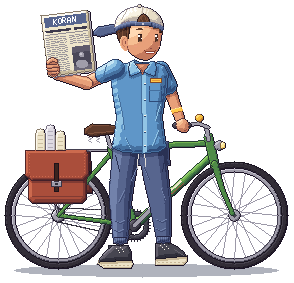
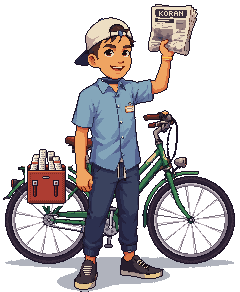
art: konversi2 menggantikan gambar full body resmi
Ronggur memutuskan (2026-10-08) hasil konversi gambar AI menggantikan
loper_agen_fullbody.png. Gambar resmi sekarang 240x292 dari konversi2.py.
Gambar 294x283 lima nada dari fullbody.py disimpan di loper_agen/arsip/
sebagai loper_agen_fullbody_v2, mengikuti arsip full body dari PR #2.

konversi2.py kini menulis loper_agen_fullbody.png dan, dengan --layers,
layer kepala dan badan terpisah (dipakai TECH_PLAN untuk ekspresi potret,
sebelumnya dari fullbody.py --layers). Salinan PNG di konversi2/ dihapus
supaya tidak dobel; folder itu tinggal sumber dan catatan.

ART_DIRECTION 3.5 ditulis ulang untuk gambar baru, dan pertanyaan terbuka
soal gaya lima nada untuk skala besar ditutup. Indeks karakter ikut
diperbarui.

Claude-Session: https://claude.ai/code/session_01KKCx6EyAWLZEa7qt4exrqe

diff --git a/tools/loper_art/fullbody/konversi2.py b/tools/loper_art/fullbody/konversi2.py
@@ -1,7 +1,8 @@
-"""Gambar AI loper (sumber 1792x2240) jadi pixel art 240x292, versi konversi2.
+"""Gambar full body loper (resmi sejak 2026-10-08): gambar AI 1792x2240 jadi pixel art 240x292.
 
-Hasil: docs/design/character/loper_agen/konversi2/. Langkah-langkahnya ada di
-folder konversi2/ dan dijalankan berurutan:
+Hasil: docs/design/character/loper_agen/loper_agen_fullbody.png (sumber dan catatan di
+konversi2/ di folder yang sama). Langkah-langkahnya ada di folder konversi2/ di sini dan
+dijalankan berurutan:
 
   mask.py     latar cokelat polos dibuang (masker latar)
   stage1.py   bayangan tanah dipisah, palet 36 warna (k-means Lab), tiap sel 7x7 px
@@ -20,6 +21,7 @@ Koordinat di tiap langkah khusus untuk gambar sumber ini.
 
   python3 tools/loper_art/fullbody/konversi2.py \\
       docs/design/character/loper_agen/konversi2/sumber_ai.jpg --out build/loper_art/konversi2
+  # --layers: juga simpan layer kepala dan badan terpisah (untuk ekspresi potret)
 
 Butuh numpy, pillow, opencv-python, scikit-learn.
 """
@@ -38,6 +40,7 @@ def main():
     ap = argparse.ArgumentParser(description=__doc__.split("\n")[0])
     ap.add_argument("source", help="gambar sumber (sumber_ai.jpg)")
     ap.add_argument("--out", default="build/loper_art/konversi2")
+    ap.add_argument("--layers", action="store_true", help="juga simpan layer kepala dan badan terpisah")
     args = ap.parse_args()
 
     out = os.path.abspath(args.out)
@@ -49,13 +52,15 @@ def main():
         print("..", step)
         runpy.run_path(os.path.join(HERE, step), init_globals={"W": work + os.sep, "HERE": HERE})
 
+    name = "loper_agen_fullbody"
     img = Image.open(os.path.join(work, "comp1x.png")).convert("RGBA")
-    img.save(os.path.join(out, "loper_agen_konversi2.png"))
+    img.save(os.path.join(out, name + ".png"))
     w, h = img.size
-    big = img.resize((w * 3, h * 3), Image.NEAREST)
-    os.makedirs(os.path.join(out, "preview"), exist_ok=True)
-    big.save(os.path.join(out, "preview", "loper_agen_konversi2_x3.png"))
-    print("selesai:", os.path.join(out, "loper_agen_konversi2.png"), f"{w}x{h}")
+    img.resize((w * 3, h * 3), Image.NEAREST).save(os.path.join(out, name + "_x3.png"))
+    if args.layers:
+        shutil.copyfile(os.path.join(work, "layer_badan.png"), os.path.join(out, name + "_body.png"))
+        shutil.copyfile(os.path.join(work, "layer_kepala.png"), os.path.join(out, name + "_head.png"))
+    print(f"{name}: {w}x{h} -> {out}")
 
 
 if __name__ == "__main__":

diff --git a/tools/loper_art/fullbody/konversi2/compose.py b/tools/loper_art/fullbody/konversi2/compose.py
@@ -159,3 +159,9 @@ for (ax,ay) in AXLES:
     for (x,y) in [(ax-2,ay-1),(ax-2,ay),(ax+1,ay-1),(ax+1,ay),(ax-1,ay-2),(ax,ay-2),(ax-1,ay+1),(ax,ay+1)]:
         img.put(x,y,OUT)
 Image.fromarray(img.rgba()).save(W+'comp1x.png')
+# head and body layers: body keeps what lies under the head (back of the collar)
+body=Canvas(GH,GW); body.rgb=img.rgb.copy(); body.a=img.a.copy()
+hm=HEAD_LAYER.a>0
+body.rgb[hm]=PRE_RGB[hm]; body.a[hm]=PRE_A[hm]
+Image.fromarray(body.rgba()).save(W+'layer_badan.png')
+Image.fromarray(HEAD_LAYER.rgba()).save(W+'layer_kepala.png')

diff --git a/tools/loper_art/fullbody/konversi2/headmove_b.py b/tools/loper_art/fullbody/konversi2/headmove_b.py
@@ -1,5 +1,9 @@
 # ---- paste the head 2 px lower, in front of the collar
+# (also kept as its own layer, so the head can be swapped for portrait expressions)
+PRE_RGB=img.rgb.copy(); PRE_A=img.a.copy()
+HEAD_LAYER=Canvas(GH,GW)
 for y in range(GH-1,-1,-1):
     for x in range(HX0,HX1):
         if HEAD_A[y,x]:
             img.put(x,y+HEAD_SHIFT,tuple(HEAD_RGB[y,x]))
+            HEAD_LAYER.put(x,y+HEAD_SHIFT,tuple(HEAD_RGB[y,x]))

diff --git a/docs/ART_DIRECTION.md b/docs/ART_DIRECTION.md
@@ -210,20 +210,24 @@ Tujuh varian dari eksplorasi tetap ada di `tools/loper_art/loper.py` dan bisa di
 
 ### 3.5 Gambar skala besar (full body)
 
-Dipakai di layar di luar rute: layar judul, halaman depan koran, lemari baju, hasil harian, gambar toko. File: `design/character/loper_agen/loper_agen_fullbody.png` (294×283 px, tampil ×3), dibuat dengan `tools/loper_art/fullbody/fullbody.py`.
+> **KEPUTUSAN (2026-10-08): gambar full body diganti dengan konversi gambar AI** (`konversi2`), menggantikan gambar 294×283 hasil `fullbody.py` (disimpan di `design/character/loper_agen/arsip/loper_agen_fullbody_v2.png`).
 
-Gaya skala besar (usulan) sengaja lebih kaya dari sprite rute, karena dilihat dari dekat dan tidak bergerak di atas jalan:
+Dipakai di layar di luar rute: layar judul, halaman depan koran, lemari baju, hasil harian, gambar toko. File: `design/character/loper_agen/loper_agen_fullbody.png` (240×292 px, tampil ×3), dibuat dengan `tools/loper_art/fullbody/konversi2.py` dari ilustrasi AI `design/character/loper_agen/konversi2/sumber_ai.jpg`, lalu sebagian diubah dan digambar ulang (catatan lengkap di `konversi2/README.md`).
+
+Gaya skala besar sengaja lebih kaya dari sprite rute, karena dilihat dari dekat dan tidak bergerak di atas jalan:
 
 | | Sprite rute | Skala besar |
 |---|---|---|
-| Nada per warna | 3 | 5, bayangan bergeser ke ungu-biru |
-| Garis dalam | `#0E0A1C` | Warna gelap bahan itu sendiri; garis luar siluet `#1B1226` |
+| Nada per warna | 3 | Palet hasil konversi (k-means 36 warna ditambah warna bagian yang digambar ulang, 70 warna) |
+| Garis dalam | `#0E0A1C` | Warna gelap dari gambar sumber; garis luar siluet `#1B1226` |
 | Bayangan tanah | Penanda hitam 28%, diwarnai shader | Dongker `#2E3550` 38% |
 | Detail | Bentuk besar, wajah 2 mata + mulut | Lipatan kain, jahitan, wajah tiga perempat, tulisan "KORAN" di koran |
 
-Pose: berdiri di depan sepeda, tangan kiri di setang. Tangan kanan menjulurkan koran hari ini ke samping wajah dan menjepit sisi kiri bawahnya: empat jari di depan koran dan jempol ditekuk di atasnya, lengan di belakang koran dan muncul dari tepi bawahnya. Wajah menoleh sekitar 30° ke kanan; garis rahang berakhir di telinga, dan telinga tanpa garis hitam.
+Pose: berdiri di depan sepeda, menghadap penonton. Tangan kanan mengangkat koran hari ini tinggi-tinggi dengan tulisan "KORAN" terbaca, tangan kiri di samping badan. Wajah tiga perempat, tersenyum.
 
-**Kepala terpisah (2026-10-07):** leher tidak digambar. Kepala diletakkan dekat badan, hanya dipisah celah 2 px dari kerah, dan digambar di layer sendiri, jadi bisa diekspor terpisah (`fullbody.py --layers`) untuk ganti ekspresi atau animasi kecil. Kerah kemeja memeluk pangkal leher: lebarnya sekitar satu setengah kali lebar leher dan tidak melebar ke bahu. Kancing teratas terbuka, jadi kulit dada hanya terlihat di bukaan V kecil tepat di bawah dagu; dua daun kerah terlipat turun di kiri-kanan bukaan dan berakhir runcing.
+**Kepala terpisah:** leher tidak digambar. Bagian belakang kerah dongker terlihat di bawah dagu, dan dagu sedikit menumpuk kerah itu. Garis dagu melengkung: tegak di bawah telinga, landai ke dagu. Ujung kerah menyambung ke bahu; kulit dada hanya terlihat di bukaan V kecil. Kepala ada di layer sendiri (`konversi2.py --layers` menyimpan `_head` dan `_body`) untuk ganti ekspresi atau animasi kecil.
+
+**Sepeda di gambar ini:** tas boncengan terbuka berisi koran gulung, satu gir belakang tanpa derailleur, dua engkol segaris, dua kabel rem. Beda dengan 3.1: sepeda pakai spakbor dan tas boncengan hanya terlihat satu sisi. Sprite rute tidak berubah.
 
 ---
 
@@ -280,7 +284,7 @@ Kolom **M2** = dibutuhkan untuk satu hari penuh di perumahan (prototype 3–4). 
 | Aset | M2 | M3 | Catatan |
 |---|---|---|---|
 | Kayuh 3 kecepatan × 5 arah | ✅ | ✅ | Selesai 2026-10-07, diperbarui ke celana jogger tanpa keranjang |
-| Gambar full body skala besar | ✅ | ✅ | Selesai 2026-10-07 (bagian 3.5) |
+| Gambar full body skala besar | ✅ | ✅ | Selesai; diganti 2026-10-08 dengan konversi gambar AI (bagian 3.5) |
 | Lempar sisi seberang / dekat | ✅ | ✅ | Per arah normal dulu, arah lain menyusul |
 | Meluncur, rem | ✅ | ✅ | |
 | Berhenti (kaki turun) | ✅ | ✅ | Untuk menangkap kucing |
@@ -513,13 +517,12 @@ Jumlah aset adalah penyebab paling umum game solo mangkrak. Penawarnya sudah dib
 - **Cara menampilkan rumah di sisi dekat**, yang hanya terlihat belakangnya.
 - **Font HUD**: mock memakai Lexend + Lilita One (sama dengan Brainy Dungeon). Kunci atau pilih identitas sendiri.
 - **Apakah sprite pemain dipoles manual** sebelum rilis, terutama wajah dari arah depan.
-- **Gaya skala besar** (bagian 3.5): lima nada dan garis dalam berwarna dikunci atau disamakan dengan sprite rute.
 
 ---
 
 ## Changelog Keputusan
 
-- **2026-10-08** — **Konversi gambar AI baru disetujui** (`design/character/loper_agen/konversi2/`, 240×292). Kepala terpisah tanpa leher dengan dagu sedikit menumpuk kerah belakang, tas boncengan terbuka berisi koran, satu gir belakang, dua engkol segaris, dua kabel rem. Belum menggantikan `loper_agen_fullbody.png` (bagian 3.5); masih beda dengan 3.1 di spakbor, tas satu sisi, dan pose.
+- **2026-10-08** — **Gambar full body diganti dengan konversi gambar AI** (bagian 3.5). `loper_agen_fullbody.png` sekarang 240×292 px dari `konversi2.py` (sumber di `design/character/loper_agen/konversi2/`), menggantikan gambar 294×283 lima nada dari `fullbody.py`. Kepala terpisah tanpa leher dengan dagu sedikit menumpuk kerah belakang, koran diangkat tinggi, tas boncengan terbuka berisi koran, satu gir belakang, dua engkol segaris, dua kabel rem. Spakbor dan tas satu sisi berbeda dari 3.1, hanya di gambar ini. Pertanyaan terbuka soal gaya lima nada untuk skala besar ditutup.
 - **2026-10-07** — **Usulan lingkungan** (bagian 2.6): bayangan berwarna per waktu, pemain setengah color grading, penampang jalan per distrik (lajur sepeda di perumahan, ruko 2 lajur, gang 2 ubin, talud sungai miring), palet enam distrik, detail pinggir jalan dan antena TV, tiga bentuk rumah dan tiga jenis pohon perumahan, model sedan/angkot/bus kecil. Mock di `design/environment/`, renderer `tools/env_art`. Belum dikunci.
 - **2026-10-07** — **Gambar full body: kepala terpisah tanpa leher, koran dijepit di samping wajah** (bagian 3.5). Kepala melayang 2 px di atas kerah; ukuran gambar menjadi 294×283 px. Sprite rute tidak berubah.
 - **2026-10-07** — **Celana panjang jogger dan tanpa keranjang depan** (bagian 3.1). Sprite produksi dirender ulang dengan ukuran sel dan titik pijak yang sama (46×58, 23,46), jadi kode dan SpriteFrames tidak berubah. Ditambah lampu depan dan bel. Gambar full body skala besar dibuat dengan gaya lima nada (bagian 3.5); pilihan celana 3/4 tidak dipakai.

diff --git a/docs/design/character/loper_agen/konversi2/README.md b/docs/design/character/loper_agen/konversi2/README.md
@@ -1,33 +1,31 @@
-# Konversi gambar AI baru ke pixel art (konversi2)
+# Sumber gambar full body (konversi2)
 
-Ilustrasi full body baru dari generator gambar (`sumber_ai.jpg`, 1792×2240) diubah jadi pixel art 240×292 px: palet terbatas, garis luar 1 px `#1B1226`, latar transparan, bayangan tanah dongker `#2E3550` 38% (sama dengan gaya skala besar, `docs/ART_DIRECTION.md` 3.5). Setelah konversi otomatis, beberapa bagian diubah dan digambar ulang dengan tangan.
+Gambar full body resmi `../loper_agen_fullbody.png` (240×292 px, sejak 2026-10-08) dibuat dari ilustrasi AI di folder ini (`sumber_ai.jpg`, 1792×2240). Ilustrasinya diubah jadi pixel art dengan palet terbatas, garis luar 1 px `#1B1226`, latar transparan, dan bayangan tanah dongker `#2E3550` 38% (`docs/ART_DIRECTION.md` 3.5). Setelah konversi otomatis, beberapa bagian diubah dan digambar ulang dengan tangan.
 
-Status: **disetujui Ronggur 2026-10-08** sebagai hasil konversi. Belum menggantikan gambar full body resmi `../loper_agen_fullbody.png`; keputusan itu dibahas di PR.
+Status: **resmi**, disetujui Ronggur 2026-10-08. Menggantikan gambar 294×283 hasil `tools/loper_art/fullbody/fullbody.py`, yang sekarang disimpan di `../arsip/loper_agen_fullbody_v2.png`.
 
 ## Isi
-- `loper_agen_konversi2.png`: 240×292 px, latar transparan, bayangan tanah sudah termasuk.
-- `preview/loper_agen_konversi2_x3.png`: tampil ×3.
 - `sumber_ai.jpg`: gambar sumber.
+- Hasilnya ada di folder induk: `../loper_agen_fullbody.png` dan pratinjau ×3 `../preview/loper_agen_fullbody_x3.png`.
 
 ## Yang diubah dari gambar sumber
-- **Kepala terpisah tanpa leher.** Garis dagu kiri melengkung (tegak di bawah telinga, landai ke dagu). Bagian belakang kerah dongker terlihat dan dinaikkan 2 px; kepala diturunkan 2 px sehingga dagu sedikit menumpuk kerah belakang. Ujung kerah menyambung ke bahu, bukaan V kecil.
+- **Kepala terpisah tanpa leher.** Garis dagu kiri melengkung (tegak di bawah telinga, landai ke dagu). Bagian belakang kerah dongker terlihat dan dinaikkan 2 px; kepala diturunkan 2 px sehingga dagu sedikit menumpuk kerah belakang. Ujung kerah menyambung ke bahu, bukaan V kecil. Kepala ada di layer sendiri (`--layers`).
 - **Tas boncengan terbuka.** Tutup terlipat ke belakang, gesper kosong. Koran gulung yang tadinya di atas boncengan pindah ke dalam tas; hanya bagian atasnya yang terlihat.
 - **Satu gir belakang.** Derailleur dibuang, rantai lurus dari gir belakang ke gir depan.
 - **Dua engkol segaris**, 19 px dan lebih tebal. Engkol sisi dekat naik di depan penutup rantai hijau; engkol sisi seberang turun di belakang gir depan, lebih gelap. Urutan lapisan dari belakang: engkol sisi seberang, gir depan, penutup rantai, engkol sisi dekat.
 - **Kabel rem tinggal dua.**
 - Digambar ulang: roda dan jari-jari, rantai, tulisan "KORAN", gelang kuning, tali sepatu kiri.
 
-## Beda dengan desain terkunci (ART_DIRECTION 3.1 dan 3.5)
-- Sepeda pakai spakbor; desain tanpa spakbor.
+## Beda dengan desain sprite rute (ART_DIRECTION 3.1)
+- Sepeda pakai spakbor; sprite rute tanpa spakbor.
 - Tas boncengan hanya terlihat satu sisi.
-- Pose: koran diangkat tinggi dan tangan kiri di samping badan, bukan koran dijepit di samping wajah dan tangan kiri di setang.
-- Dagu menumpuk kerah belakang, bukan dipisah celah 2 px.
 
 ## Membuat ulang
 
 ```
 pip install numpy pillow opencv-python scikit-learn
 python3 tools/loper_art/fullbody/konversi2.py docs/design/character/loper_agen/konversi2/sumber_ai.jpg --out build/loper_art/konversi2
+python3 tools/loper_art/fullbody/konversi2.py docs/design/character/loper_agen/konversi2/sumber_ai.jpg --out build/loper_art/konversi2 --layers   # + layer kepala dan badan
 ```
 
-Hasilnya identik piksel per piksel dengan file di folder ini (dicek 2026-10-08). Langkah-langkahnya ada di `tools/loper_art/fullbody/konversi2/`; koordinat di tiap langkah khusus untuk gambar sumber ini.
+Hasilnya `build/loper_art/konversi2/loper_agen_fullbody.png`, identik piksel per piksel dengan `../loper_agen_fullbody.png` (dicek 2026-10-08). Dengan `--layers` juga keluar `_head.png` dan `_body.png`; badan + kepala ditumpuk sama persis dengan gambar penuh. Langkah-langkahnya ada di `tools/loper_art/fullbody/konversi2/`; koordinat di tiap langkah khusus untuk gambar sumber ini.

diff --git a/tools/loper_art/README.md b/tools/loper_art/README.md
@@ -11,11 +11,11 @@ python3 tools/loper_art/produce.py --out build/loper_art --variant e   # varian 
 python3 tools/loper_art/base.py --out build/loper_art/base        # papan pratinjau 5 arah + 3 pose
 python3 tools/loper_art/varian.py --out build/loper_art/varian    # pratinjau 8 varian baju, sekitar 1 menit
 python3 tools/loper_art/jatuh.py --out build/loper_art/jatuh   # animasi jatuh terjerembab (usulan)
-python3 tools/loper_art/fullbody/fullbody.py --out build/loper_art/fullbody   # gambar full body skala besar
+python3 tools/loper_art/fullbody/fullbody.py --out build/loper_art/fullbody   # gambar full body versi lama 294×283 (diganti konversi2.py)
 python3 tools/loper_art/fullbody/konversi.py GAMBAR.jpg --out build/loper_art/konversi   # ilustrasi jadi pixel art (butuh scipy, scikit-image, scikit-learn)
 python3 tools/loper_art/fullbody/konversi_loper.py docs/design/character/loper_agen/konversi/sumber_ai.jpg --out build/loper_art/konversi   # + penyesuaian ke brief dan perbaikan sepeda
 python3 tools/loper_art/fullbody/fullbody.py --out build/loper_art/fullbody --layers   # + layer kepala dan badan terpisah
-python3 tools/loper_art/fullbody/konversi2.py docs/design/character/loper_agen/konversi2/sumber_ai.jpg --out build/loper_art/konversi2   # gambar AI baru jadi pixel art (butuh opencv-python, scikit-learn)
+python3 tools/loper_art/fullbody/konversi2.py docs/design/character/loper_agen/konversi2/sumber_ai.jpg --out build/loper_art/konversi2   # gambar full body resmi dari gambar AI, + --layers untuk kepala dan badan terpisah (butuh opencv-python, scikit-learn)
 python3 tools/loper_art/fullbody/arsip/fullbody_v1.py build/loper_art/arsip   # arsip: full body versi pertama
 ```
 
@@ -31,7 +31,7 @@ python3 tools/loper_art/fullbody/arsip/fullbody_v1.py build/loper_art/arsip   # 
 | `produce.py` | 60 frame → sheet 4×15 (sel 46×58, titik pijak 23,46), JSON, SpriteFrames `.tres`, pratinjau |
 | `varian.py` | Pratinjau delapan varian baju: 5 arah santai dan GIF kayuh, hasilnya di `docs/design/character/varian/` |
 | `jatuh.py` | Animasi jatuh terjerembab (usulan, arah normal): sepeda dan pengendara dengan pose bebas, sel 114×68, offset Godot sama dengan sheet kayuh |
-| `fullbody/` | Gambar full body skala besar 294×283 (`fullbody.py`, kepala di layer sendiri) dengan pelukis 2D lima nada (`pxhd.py`); gaya di `docs/ART_DIRECTION.md` 3.5. `konversi.py` mengubah ilustrasi jadi pixel art, `konversi_loper.py` menyesuaikan hasil gambar AI loper ke brief, `konversi_sepeda.py` memperbaiki frame, engkol, setang, dan tas sepedanya. `konversi2.py` menjalankan langkah-langkah di `konversi2/` untuk gambar AI baru (konversi otomatis, lalu kepala, kerah, tas, gir, engkol, dan kabel diubah). `arsip/` menyimpan full body versi pertama (`fullbody_v1.py`, pelukis tiga nada `px2d.py`) |
+| `fullbody/` | Gambar full body skala besar; gaya di `docs/ART_DIRECTION.md` 3.5. **`konversi2.py`** membuat gambar resmi 240×292 (sejak 2026-10-08) dari gambar AI dengan langkah-langkah di `konversi2/`: konversi otomatis, lalu kepala, kerah, tas, gir, engkol, dan kabel diubah; kepala di layer sendiri. `fullbody.py` (dengan pelukis lima nada `pxhd.py`) adalah versi lama 294×283, hasilnya sekarang di arsip. `konversi.py`, `konversi_loper.py`, dan `konversi_sepeda.py` (perbaikan frame, engkol, setang, dan tas sepeda) adalah eksplorasi konversi pertama. `arsip/` menyimpan full body versi pertama (`fullbody_v1.py`, pelukis tiga nada `px2d.py`) |
 
 ## Varian baju
 

diff --git a/docs/design/character/loper_agen/README.md b/docs/design/character/loper_agen/README.md
@@ -12,11 +12,11 @@ Desain sejak 2026-10-07: celana panjang jogger, tanpa keranjang depan, dengan la
 - `loper_agen.json`: metadata (sel, titik pijak, region tiap frame).
 - `preview/loper_agen_x4.png`: sprite sheet ×4 untuk dilihat.
 - `base/`: papan base model, 5 arah santai dan 3 pose kecepatan (acuan).
-- `arsip/`: full body versi pertama dan versi celana 3/4, tidak dipakai.
+- `arsip/`: full body versi pertama, versi lima nada 294×283, dan versi celana 3/4, tidak dipakai.
 - `konversi/`: gambar AI yang diubah jadi pixel art, eksplorasi (lihat README di folder itu).
-- `konversi2/`: gambar AI baru yang diubah jadi pixel art 240×292, disetujui 2026-10-08: kepala terpisah, tas boncengan terbuka, satu gir belakang, dua engkol (lihat README di folder itu).
+- `konversi2/`: gambar sumber AI dan catatan perubahan untuk `loper_agen_fullbody.png` (lihat README di folder itu).
 - `jatuh/`: animasi jatuh terjerembab, **usulan** (belum dipakai; lihat README di folder itu).
-- `loper_agen_fullbody.png`: gambar full body skala besar, 294×283 px, kepala terpisah tanpa leher, untuk layar di luar rute (lihat `docs/ART_DIRECTION.md` 3.5). Pratinjau ×3 di `preview/loper_agen_fullbody_x3.png`.
+- `loper_agen_fullbody.png`: gambar full body skala besar, 240×292 px, hasil konversi gambar AI (sejak 2026-10-08), kepala terpisah tanpa leher, untuk layar di luar rute (lihat `docs/ART_DIRECTION.md` 3.5). Pratinjau ×3 di `preview/loper_agen_fullbody_x3.png`. Sumber dan catatan perubahan di `konversi2/`.
 
 ## Pasang di Godot
 Salin folder ini ke `res://assets/sprites/loper/`. Kalau foldernya berbeda, ubah path di `.tres` dan `.tscn`.
@@ -49,5 +49,5 @@ santai: normal, serong_kanan, kanan, serong_kiri, kiri (baris 0–4), lalu cepat
 Kolom 0–3 adalah frame kayuh, berputar maju.
 
 ## Sumber dan render ulang
-Sheet, JSON, `.tres`, dan isi `preview/` dibuat oleh `tools/loper_art/produce.py` (lihat `docs/ART_DIRECTION.md` bagian 4.1). `loper_agen.tscn` dan `loper_sprite.gd` ditulis tangan dan tidak ikut dirender ulang. Gambar full body dibuat oleh `tools/loper_art/fullbody/fullbody.py`.
+Sheet, JSON, `.tres`, dan isi `preview/` dibuat oleh `tools/loper_art/produce.py` (lihat `docs/ART_DIRECTION.md` bagian 4.1). `loper_agen.tscn` dan `loper_sprite.gd` ditulis tangan dan tidak ikut dirender ulang. Gambar full body dibuat oleh `tools/loper_art/fullbody/konversi2.py` (versi lama 294×283 dari `fullbody.py` diganti 2026-10-08 dan disimpan di `arsip/`).
 Saat Fase 0, salin folder ini (tanpa `preview/`) ke `assets/sprites/loper/`. Folder di `docs/` adalah arsip desain yang diabaikan Godot.

diff --git a/docs/design/character/README.md b/docs/design/character/README.md
@@ -10,10 +10,11 @@ Nama dan latar tokoh ada di `docs/STORY.md` bagian 3. Desain baju dan aturan gay
 |---|---|---|
 | [`loper_agen/`](./loper_agen/) | Sprite sheet kayuh 15 animasi (3 kecepatan × 5 arah), SpriteFrames, scene, skrip Godot | **Produksi** |
 | [`loper_agen/base/`](./loper_agen/base/) | Papan base model: 5 arah santai dan 3 pose kecepatan (normal dan samping) | Acuan |
-| `loper_agen/loper_agen_fullbody.png` | Gambar full body skala besar, kepala terpisah tanpa leher | Resmi (gaya skala besar masih usulan) |
+| `loper_agen/loper_agen_fullbody.png` | Gambar full body skala besar 240×292 dari konversi gambar AI (sejak 2026-10-08), kepala terpisah tanpa leher | Resmi |
 | [`loper_agen/jatuh/`](./loper_agen/jatuh/) | Animasi jatuh terjerembab, arah normal | Usulan |
+| [`loper_agen/konversi2/`](./loper_agen/konversi2/) | Gambar sumber AI dan catatan perubahan untuk gambar full body resmi | Sumber |
 | [`loper_agen/konversi/`](./loper_agen/konversi/) | Gambar AI yang diubah jadi pixel art dan disesuaikan ke brief | Eksplorasi |
-| [`loper_agen/arsip/`](./loper_agen/arsip/) | Full body versi pertama dan versi celana 3/4 | Arsip, tidak dipakai |
+| [`loper_agen/arsip/`](./loper_agen/arsip/) | Full body versi pertama, versi lima nada 294×283, dan versi celana 3/4 | Arsip, tidak dipakai |
 
 ## Varian baju
 

diff --git a/docs/TECH_PLAN.md b/docs/TECH_PLAN.md
@@ -196,7 +196,7 @@ Menambah `ART_DIRECTION.md` 7 (penamaan dan folder). Semua usulan sampai Fase 6B
 | UI cerita | `ui_<nama>.png` | mengikuti `DESIGN_SPEC.md` 1.3 | Panel 9-slice | `assets/sprites/ui/` |
 | Overlay musiman | `overlay_<nama>_<distrik>.png` | per distrik | Sprite biasa, di atas dunia | `assets/sprites/overlay/` |
 
-Ekspresi potret: netral, senang, cemas atau sedih, kaget. Tokoh yang hanya muncul sebentar cukup dua ekspresi. Potret Fajar memakai desain Kemeja Agen dan kepala terpisah dari gambar full body (ART_DIRECTION 3.5), jadi ekspresinya bisa dirender dari `fullbody.py --layers`.
+Ekspresi potret: netral, senang, cemas atau sedih, kaget. Tokoh yang hanya muncul sebentar cukup dua ekspresi. Potret Fajar memakai desain Kemeja Agen dan kepala terpisah dari gambar full body (ART_DIRECTION 3.5), jadi kepalanya bisa diambil dari layer terpisah (`konversi2.py --layers`) sebagai dasar ekspresi.
 
 ---
 

diff --git a/docs/design/character/loper_agen/arsip/README.md b/docs/design/character/loper_agen/arsip/README.md
@@ -5,4 +5,5 @@ Versi yang sudah digantikan, disimpan supaya riwayat desain bisa dilihat dan pap
 | File | Isi | Dibuat oleh |
 |---|---|---|
 | `loper_agen_fullbody_v1.png` (+ `_x5`) | Versi pertama, 184×168 px, tiga nada per warna. Digantikan versi detail lima nada (2026-10-07). | `tools/loper_art/fullbody/arsip/fullbody_v1.py` |
+| `loper_agen_fullbody_v2.png` (+ `_x3`) | Versi detail lima nada, 294×283 px, celana jogger, koran dijepit di samping wajah. Digantikan konversi gambar AI 240×292 (2026-10-08). | `tools/loper_art/fullbody/fullbody.py` |
 | `loper_agen_fullbody_34.png` (+ `_x3`) | Versi detail dengan celana 3/4. Pilihan ini tidak dipakai; brief memakai celana panjang jogger (ART_DIRECTION 3.1). | `tools/loper_art/fullbody/fullbody.py --pants 3/4` |
